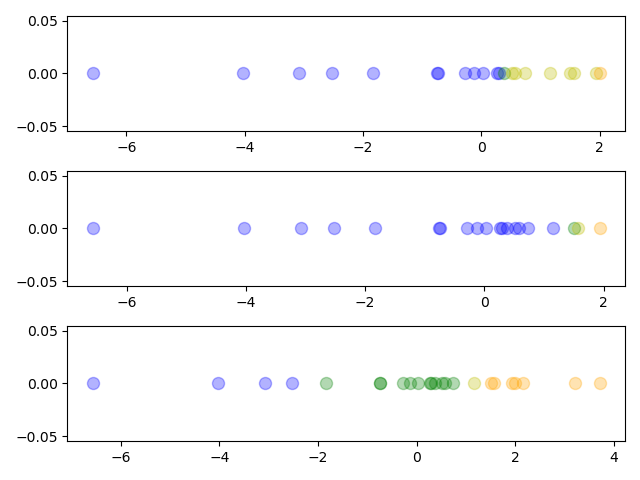
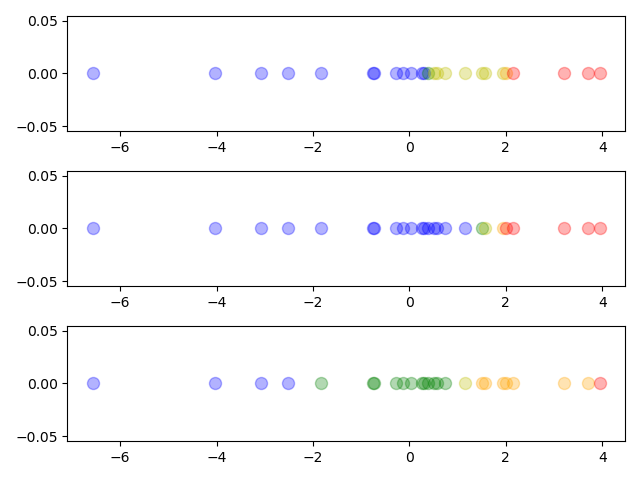
Edit tdigest explanation

diff --git a/assets/code/t-digest/tdigest.py b/assets/code/t-digest/tdigest.py
@@ -310,6 +310,7 @@ def randomly_cluster_points(points, n_clusters):
   curr_cluster = [sorted_points[0]]
 
   boundaries = np.random.choice(np.arange(points.size), size=n_clusters) + 1
+  boundaries = np.sort(boundaries)
   boundaries = np.hstack([boundaries, points.size])
 
   cnt = 0
@@ -320,6 +321,7 @@ def randomly_cluster_points(points, n_clusters):
       clusters.append(curr_cluster)
       curr_cluster = [p]
       cnt += 1
+  clusters.append(curr_cluster)
       
   return [c for c in clusters if len(c) > 0]
 
@@ -341,10 +343,11 @@ def arbitrary_clustering_examples():
   for i in range(3):
     plt.subplot(3, 1, i + 1)
     clusters = randomly_cluster_points(points, n_clusters=1 + 3)
+    # print(sum(len(c) for c in clusters))
     for j, c in enumerate(clusters):
       plt.scatter(c, np.zeros_like(c), alpha=0.3, color=colors[j % n_colors], s=75)
-
-  fname = str(IMG_DIR / "random-clusters.png") 
+    plt.yticks([])
+  fname = str(IMG_DIR / "strongly-ordered-clusters.png") 
   plt.tight_layout()
   plt.savefig(fname)
 
@@ -389,6 +392,7 @@ def plot_weakly_ordered_cluster():
   x = np.random.randn(10) + 1.5
   plt.scatter(x, np.zeros_like(x), color='y', alpha=0.4)
   plt.scatter(np.mean(x), 0, color='y', s=100, marker="x")
+  plt.yticks([])
 
   fname = str(IMG_DIR / "weakly-ordered-cluster.png") 
   plt.tight_layout()
@@ -458,9 +462,9 @@ if __name__ == "__main__":
   import imageio
 
   # clustering_with_scale_function_animation()
-  # arbitrary_clustering_examples()
+  arbitrary_clustering_examples()
   # plot_weakly_ordered_cluster()
-  plot_scale_functions()
+  # plot_scale_functions()
 
   # plot_cdf_examples()
   # profiling_example()

diff --git a/_drafts/2021-05-09-tdigests.md b/_drafts/2021-05-09-tdigests.md
@@ -54,27 +54,31 @@ class ClusterSummary:
 To understand how the compression is done, it is easiest to consider the case when all of the data is available in memory. Below are three possible 1d clusterings of 25 data points. 
 
 <figure>
-    <a href="/assets/images/t-digest/random-clusters.png"><img src="/assets/images/t-digest/random-clusters.png"></a>
+    <a href="/assets/images/t-digest/strongly-ordered-clusters.png"><img src="/assets/images/t-digest/strongly-ordered-clusters.png"></a>
     <figcaption>Figure 1</figcaption>
 </figure>
 
-The clusters in Figure 1 have a property that the authors of the [_t_-digest paper](https://arxiv.org/abs/1902.04023) refer to as _strongly ordered_ A collection of clusters is called strongly ordered if a cluster with a smaller center of mass (alternatively called a centroid) than another is guaranteed to have all of its points be less than that of the cluster with the larger center of mass. 
+The clusters in Figure 1 have a property that the authors of the [_t_-digest paper](https://arxiv.org/abs/1902.04023) refer to as _strongly ordered_. A collection of clusters is called strongly ordered if a cluster with a smaller center of mass than another is guaranteed to have all of its points be less than that of the cluster with the larger center of mass. 
 
-This strong ordering can be observed in Figure 1 visually as all of the data points belonging to the blue cluster being less than all of the data points belonging to the green cluster and the points in the green cluster all being less than those in the yellow cluster. In contrast, had each data point been randomly assigned to a cluster, regardless of its value, the clustering would almost certainly not exhibit strong ordering.
-
-The clusters stored in the _t_-digest are not built by random assignment, however. Instead, a _t_-digest uses what the authors call a _scale function_ which maps a percentile to a real number, which they denote by $$k$$. This function is used to define a criteria for how many points should be allowed in each cluster. 
-
-When a cluster is created, the percentile of the first data point in the cluster is mapped to a $$k$$ value and saved. Points are continually added to the cluster (in sorted order) until enough points are added such that the $$k$$ value has increased by 1. At this point the cluster is considered complete and the centroid (the mean of the data in the cluster), as well as the weight (the number of data points in the cluster) are stored and a new cluster is started. Below is the signature for a cluster in Python.
-
-
-The cluster building process is shown visually in Figure 2 with the crosses denoting cluster centroids. Note how there are fewer points in the clusters at the extreme quantiles where the scale function is steeper.
+This strong ordering property can be observed visually in Figure 1. Note that all of the data points belonging to the blue cluster are less than all of the data points belonging to the green cluster, the points in the green cluster are all less than those in the yellow cluster and so on. In contrast, the clusters in Figure 2 do not exhibit strong ordering. Even though the centroid of the yellow cluster is greater than that of the green cluster, there are points belonging to the yellow cluster that are less than some of the points in the green cluster.
 
 <figure>
-    <a href="/assets/gifs/t-digest/cluster-building-with-scale-function.gif"><img src="/assets/gifs/t-digest/cluster-building-with-scale-function.gif"></a>
+    <a href="/assets/images/t-digest/weakly-ordered-cluster.png"><img src="/assets/images/t-digest/weakly-ordered-cluster.png"></a>
     <figcaption>Figure 2</figcaption>
 </figure>
 
-The algorithm outlined above can be written succinctly in Python as shown in the following snippet used to generate Figure 2. 
+One of the main contributions of the paper is a systematic way of choosing the boundaries of the clusters. The _t_-digest uses what the authors call a _scale function_ which maps a percentile to a real number, which they denote by $$k$$. This function is used to define a criteria for how many points should be allowed in each cluster (more on this later). 
+
+When a cluster is created, the percentile of the first data point in the cluster is mapped to a $$k$$ value and saved. Points are continually added to the cluster (in sorted order) until enough points are added such that the $$k$$ value has increased by 1. At this point the cluster is considered complete and the centroid as well as its weight are stored and a new cluster is started.
+
+The cluster building process is shown in the animation in Figure 3. The crosses denote cluster centroids. Note how there are fewer points in the clusters at the extreme quantiles where the scale function is steeper.
+
+<figure>
+    <a href="/assets/gifs/t-digest/cluster-building-with-scale-function.gif"><img src="/assets/gifs/t-digest/cluster-building-with-scale-function.gif"></a>
+    <figcaption>Figure 3</figcaption>
+</figure>
+
+Below is an implementation of this algorithm in Python.
 
 {% highlight python %}
 import numpy as np
@@ -100,16 +104,24 @@ def cluster_points(points):
           centroids.append(np.mean(data_clusters[-1]))
           data_clusters.append([pt])
           k_lower = k_upper
+
+  return data_clusters
 {% endhighlight %}
 
 ## Scale Functions
-At first glance, the choice of scale function seems complicated and arbitrary.
+At first glance, the choice of scale function seems complicated and arbitrary. 
 
-- Mention the scale function must be defined on 0-1
-- Preferable to have larger slope at beginnings and ends to accurately estimate extreme quantiles
-- Mention dq/dk of k_1 and k_2. Explain how this derivative gives the sizes of the cluster roughly
+The first property of a valid scale function is that it must be defined over the domain $$[0,1]$$. This ensures every percentile is mapped to a $$k$$ value. However, the main property of the scale function is that it is monotone increasing. Without this property, it is possible that the change in $$k$$ would never exceed 1, leading to no clustering at all.
 
-The main property of the scale function is that it is monotone increasing. The slope of the scale function over the domain $$[0,1]$$ determines how many points need to be added to a cluster before it is complete. The steeper the slope, the fewer points will be allowed in the cluster since the $$k$$ value increases rapidly for each percentile. The flatter the slope, the more points will be included before a new cluster is started. The four scale functions defined in the paper are
+Perhaps the more fundamental object than the scale function is its derivative. The slope of the scale function determines how fast the $$k$$ value increases with each percentile. This effectively sets the number of points that can be added to a cluster before it is complete. The larger the slope, the fewer points will be allowed in the cluster. The smaller the slope, the more points will be included before a new cluster is started. 
+
+To make this notion more precise, consider the linearisation of the scale function $$k(q)$$
+
+$$\Delta k \approx \frac{\mathrm{d}k}{\mathrm{d}q}\Delta q$$
+
+The condition for finishing a cluster, $$\Delta k = 1$$, can be rewritten as $$\frac{\mathrm{d}q}{\mathrm{d}k} = \Delta q$$. Since $$\Delta q$$ is just the number of points in the cluster divided by the total number of data points, it can be said that the cluster sizes are proportional to $$\frac{\mathrm{d}q}{\mathrm{d}k}$$ (at least approximately). For the inverse sine scale function in the previous section, this derivative is $$\sqrt{q(1-q)}$$. This means the extreme percentiles (near 0 or 1) will be approximated by smaller, more accurate clusters (see Figure 3)
+
+The paper goes on to suggest four scale functions with various desirable properties
 
 $$
 \begin{align*}
@@ -129,15 +141,8 @@ Each scale function has a scale parameter $$\delta$$ which determines the number
 
 <figure>
     <a href="/assets/images/t-digest/scale-functions.png"><img src="/assets/images/t-digest/scale-functions.png"></a>
-    <figcaption>Figure 3</figcaption>
+    <figcaption>Figure 4</figcaption>
 </figure>
-
-The cluster size is determined by $$\Delta k$$ which, using linearisation, can be written as 
-
-$$\Delta k \approx \frac{\mathrm{d}k}{\mathrm{d}q}\Delta q$$
-
-The condition for finishing a cluster, $$\Delta k = 1$$, can be rewritten as $$\frac{\mathrm{d}q}{\mathrm{d}k} = \Delta q$$. And since $$\Delta q$$ is just the number of points in the cluster divided by the total number of data points, it can be said that the cluster sizes are proportional to $$\frac{\mathrm{d}q}{\mathrm{d}k}$$ (at least approximately). For $$k_1$$ this is $$\sqrt{q(1-q)}$$ whereas for $$k_2$$
-the cluster sizes are proportional to $$q(1-q)$$ which has the effect of making smaller, more accurate clusters, in the tails.
 
 # Defining the _t_-digest
 ## Merging digests
@@ -157,12 +162,7 @@ def merge_clusters(c1, c2):
 
 For the most part, this algorithm is the same as the in-memory case where instead of adding points to a cluster, clusters are added to larger clusters. There is one important distinction however. 
 
-The clusters in-memory were guaranteed to be strongly ordered, by construction. That is, a cluster with a centroid to the left of another cluster's centroid must have every data point less than that of the other cluster. After merging centroids, this property no longer holds and the clusters are instead "weakly ordered". Figure 4 shows an example of a weakly ordered cluster. Even though the green centroid is less than the yellow centroid, there are some yellow points less than green ones. The consequence of this is error in the estimation of the percentiles.
-
-<figure>
-    <a href="/assets/images/t-digest/weakly-ordered-cluster.png"><img src="/assets/images/t-digest/weakly-ordered-cluster.png"></a>
-    <figcaption>Figure 4</figcaption>
-</figure>
+The clusters in-memory were guaranteed to be strongly ordered, by construction. That is, a cluster with a centroid to the left of another cluster's centroid must have every data point less than that of the other cluster. After merging centroids, this property no longer holds.  The consequence of this is error in the estimation of the percentiles.
 
 ## Percentile Estimation
 With the _t_-digest defined as well as methods for combining existing digests, the natural question is how to estimate an arbitrary percentile. In keeping only the centroids, along with the number of points, it is clear there is no way to get an exact answer to this question.
@@ -206,9 +206,6 @@ def cdf(td, x):
 
 # Conclusion
 The _t_-digest is essentially a compressed representation of the data's cumulative distribution function (CDF). 
-
-## Conclusion
-The _t_-digest data structure provides accurate quantile estimates by maintaining a list of clusters, each of which is defined by the number of points it contains and the average value of those points. Linear interpolation between the cluster centroids allows approximation of arbitrary percentiles.
 
 ## Footnotes
 <a name="footnote1">1</a>: A function is convex if $$f(\theta x + (1-\theta)y) \le \theta f(x) + (1-\theta)f(y)$$.  
